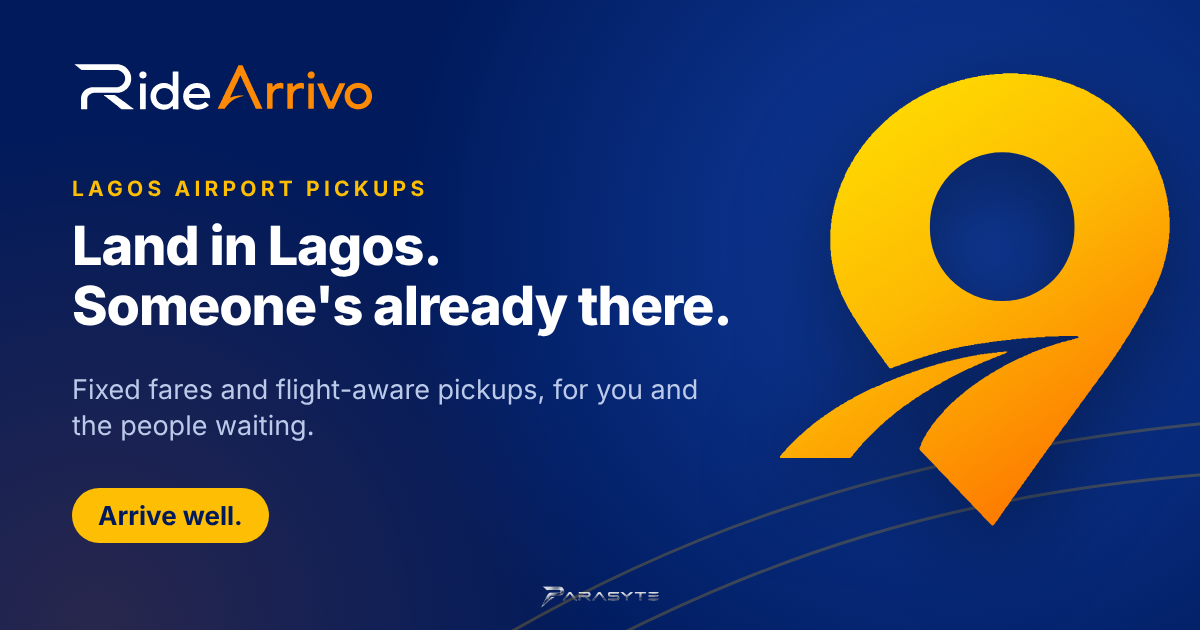
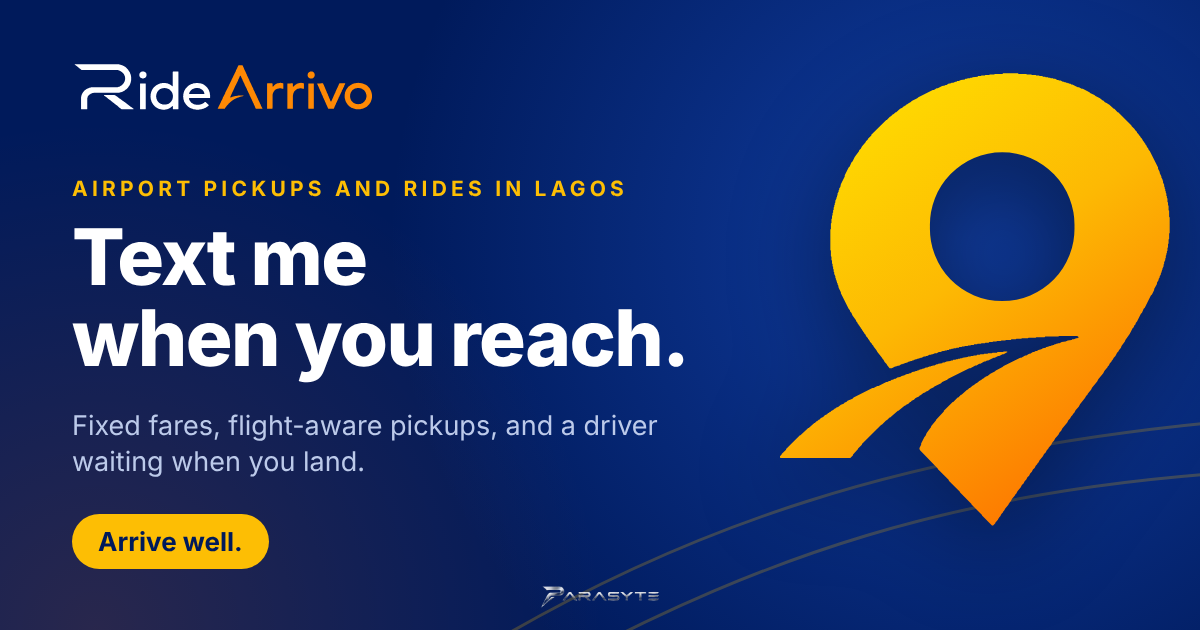
Brand: share image and share text in the RideArrivo voice (Text me when you reach)
Claude-Session: https://claude.ai/code/session_0127xD8GPRfbT9LgfmUe4RFJ

Changed region(s): [[0.0617, 0.2714, 0.6167, 0.6333], [0.0617, 0.7238, 0.3083, 0.9048], [0.0617, 0.6635, 0.555, 0.6937]]

diff --git a/index.html b/index.html
@@ -6,14 +6,14 @@
 <title>Lagos Airport Transfers &amp; Chauffeur Services | RideArrivo</title>
 <link rel="canonical" href="https://ridearrivo.com/">
 <meta name="description" content="Book airport transfers, scheduled rides and chauffeur services in Lagos with verified drivers, live tracking and upfront pricing from RideArrivo.">
-<meta property="og:title" content="Lagos Airport Transfers &amp; Chauffeur Services | RideArrivo">
-<meta property="og:description" content="Premium airport transfers, scheduled rides and chauffeur services in Lagos with verified drivers and live trip tracking.">
+<meta property="og:title" content="RideArrivo: Text me when you reach.">
+<meta property="og:description" content="Fixed fares and flight-aware airport pickups across Lagos. Arrive well.">
 <meta property="og:type" content="website">
 <meta property="og:url" content="https://ridearrivo.com">
 <meta property="og:image" content="https://ridearrivo.com/assets/og-image.png">
 <meta name="twitter:card" content="summary_large_image">
-<meta name="twitter:title" content="Lagos Airport Transfers &amp; Chauffeur Services | RideArrivo">
-<meta name="twitter:description" content="Premium airport transfers, scheduled rides and chauffeur services in Lagos with verified drivers and live trip tracking.">
+<meta name="twitter:title" content="RideArrivo: Text me when you reach.">
+<meta name="twitter:description" content="Fixed fares and flight-aware airport pickups across Lagos. Arrive well.">
 <meta name="twitter:image" content="https://ridearrivo.com/assets/og-image.png">
 <link rel="icon" type="image/png" href="assets/favicon.png">
 <link rel="apple-touch-icon" href="assets/pwa/ride/apple-touch-icon.png">

diff --git a/express.html b/express.html
@@ -6,14 +6,14 @@
 <title>ArrivoExpress | RideArrivo</title>
 <link rel="canonical" href="https://ridearrivo.com/express.html">
 <meta name="description" content="ArrivoExpress: on-demand rides in Lagos. Choose Economy, Comfort, XL or Premium and get matched with a nearby verified driver in minutes, no schedule needed.">
-<meta property="og:title" content="ArrivoExpress | RideArrivo">
-<meta property="og:description" content="On-demand rides in Lagos, priced by distance and time. Choose your vehicle and get matched with a nearby driver.">
+<meta property="og:title" content="ArrivoExpress: the price you see is the price you pay">
+<meta property="og:description" content="Book a ride now or ahead across Lagos. See the fare first and pay your driver directly.">
 <meta property="og:type" content="website">
 <meta property="og:url" content="https://ridearrivo.com/express.html">
 <meta property="og:image" content="https://ridearrivo.com/assets/og-image.png">
 <meta name="twitter:card" content="summary_large_image">
-<meta name="twitter:title" content="ArrivoExpress | RideArrivo">
-<meta name="twitter:description" content="On-demand rides in Lagos, priced by distance and time.">
+<meta name="twitter:title" content="ArrivoExpress: the price you see is the price you pay">
+<meta name="twitter:description" content="Book a ride now or ahead across Lagos. See the fare first and pay your driver directly.">
 <meta name="twitter:image" content="https://ridearrivo.com/assets/og-image.png">
 <link rel="icon" type="image/png" href="assets/favicon.png">
 <link rel="apple-touch-icon" href="assets/pwa/ride/apple-touch-icon.png">
